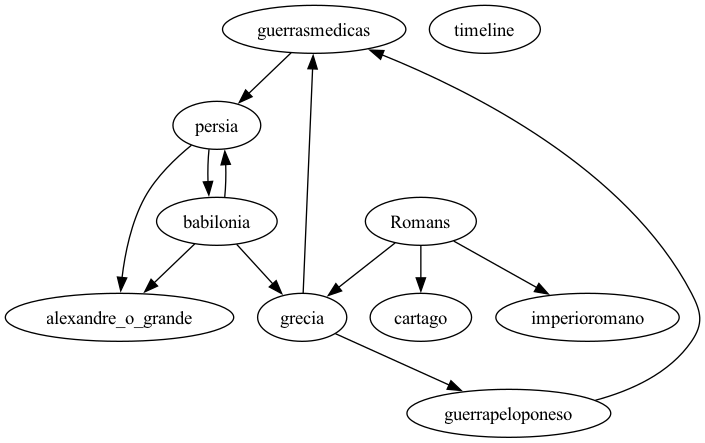
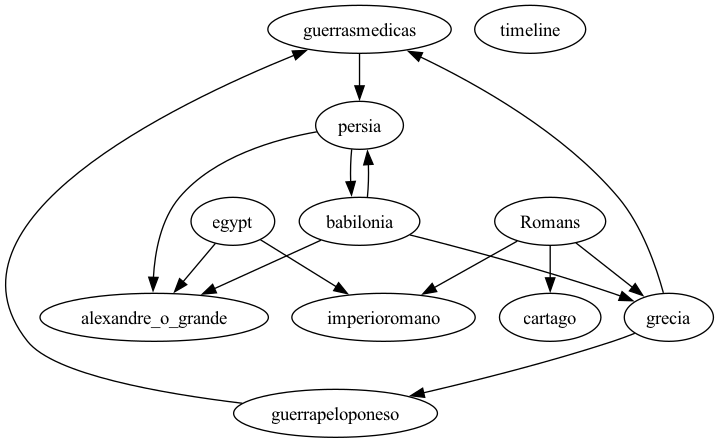
feat: egito, they are old :) ::by sergio giraldo @ 20241119T2006CET, gpg signed

diff --git a/docs/index.html b/docs/index.html
@@ -59,7 +59,9 @@
 				<li><a href="persia">persia</a></li>
 				<li><a href="babilonia">babilonia</a></li>
 				<li><a href="alexandre_o_grande">alexandre_o_grande</a></li>
-				<!--NEXT-->
+				
+<li><a href='egypt'>egypt</a></li>
+<!--NEXT-->
 			</ul>
 		</div>
 	</body>

diff --git a/docs/egypt.md b/docs/egypt.md
@@ -1,0 +1,41 @@
+# Egypt
+
+## Preambule
+
+Egypt has been inhabited by humans (including archaic humans) for over a million (and probably over 2 million) years, though the evidence for early occupation of Egypt is sparse and fragmentary. The oldest archaeological finds in Egypt, stone tools belonging to the Oldowan industry, are poorly dated. These tools are succeeded by those belonging to the Acheulean industry.[3] The youngest Achulean sites in Egypt date to around 400-300,000 years ago.
+
+During the Late Pleistocene, when Egypt was occupied by modern humans, several archaeological industries are recognised including the Silsilian, Fakhurian, Afian, Kubbaniyan, Idfuan-Shuwikhatian, and the Isnan industries
+
+## Prehistoric Egypt
+
+- 300,000 BC – 3100 BC
+
+### Summary
+
+Prehistoric Egypt and Predynastic Egypt was the period of time starting at the first human settlement and ending at the First Dynasty of Egypt around 3100 BC.
+
+At the end of prehistory, "Predynastic Egypt" is traditionally defined as the period from the final part of the Neolithic period beginning c. 6210 BC to the end of the Naqada III period c. 3000 BC.
+
+## Ancient Egypt
+
+- 3150 BC – 330 BC
+
+### Summary
+
+Ancient Egypt was a civilization of ancient Northeast Africa. It was concentrated along the lower reaches of the Nile River, situated within the contemporary territory of modern-day Egypt. Ancient Egyptian civilization followed prehistoric Egypt and coalesced around 3100 BC (according to conventional Egyptian chronology)[1] with the political unification of Upper and Lower Egypt under pharaoh or king Menes (often identified with Narmer).[2] The history of ancient Egypt unfolded as a series of stable kingdoms interspersed by periods of relative instability known as "Intermediate Periods". The various kingdoms fall into one of three categories: the Old Kingdom of the Early Bronze Age, the Middle Kingdom of the Middle Bronze Age, or the New Kingdom of the Late Bronze Age.
+
+Ancient Egypt reached the pinnacle of its power during the New Kingdom, ruling much of Nubia and a sizable portion of the Levant. After this period, it entered an era of slow decline. During the course of its history, ancient Egypt was invaded or conquered by a number of foreign powers, including the Hyksos, the Nubians, the Assyrians, the Achaemenid Persians, and the Macedonians under [Alexander the Great](alexandre_o_grande). The Greek Ptolemaic Kingdom, formed in the aftermath of Alexander's death, ruled until 30 BC, when, under Cleopatra, it fell to the [Roman Empire](imperioromano) and became a Roman province.Egypt remained under Roman control until 642 AD, when it was conquered by the Rashidun Caliphate.
+
+The success of ancient Egyptian civilization came partly from its ability to adapt to the conditions of the Nile River valley for agriculture. The predictable flooding and controlled irrigation of the fertile valley produced surplus crops, which supported a more dense population, and social development and culture. With resources to spare, the administration sponsored mineral exploitation of the valley and surrounding desert regions, the early development of an independent writing system, the organization of collective construction and agricultural projects, trade with surrounding regions, and a military intended to assert Egyptian dominance. Motivating and organizing these activities was a bureaucracy of elite scribes, religious leaders, and administrators under the control of a pharaoh, who ensured the cooperation and unity of the Egyptian people in the context of an elaborate system of religious beliefs.[4]
+
+The many achievements of the ancient Egyptians include the quarrying, surveying, and construction techniques that supported the building of monumental pyramids, temples, and obelisks; a system of mathematics, a practical and effective system of medicine, irrigation systems, and agricultural production techniques, the first known planked boats,[5] Egyptian faience and glass technology, new forms of literature, and the earliest known peace treaty, made with the Hittites.[6] Ancient Egypt has left a lasting legacy. Its art and architecture were widely copied, and its antiquities were carried off to be studied, admired or coveted in the far corners of the world. Its monumental ruins have inspired the imaginations of travelers and writers for millennia. A newfound respect for antiquities and excavations in the early modern period by Europeans and Egyptians has led to the scientific investigation of Egyptian civilization and a greater appreciation of its cultural legacy.
+
+## Roman Egypt
+
+- 30 BC – 641 AD
+
+### Summary
+
+Roman Egypt was an imperial province of the [Roman Empire](imperioromano) from 30 BC to AD 641. The province encompassed most of modern-day Egypt except for the Sinai. It was bordered by the provinces of Crete and Cyrenaica to the west and Judaea, later Arabia Petraea, to the East.
+
+Egypt was conquered by Roman forces in 30 BC and became a province of the new Roman Empire upon its formation in 27 BC. Egypt came to serve as a major producer of grain for the empire and had a highly developed urban economy. It was by far the wealthiest Roman province outside of Italy.[2] The population of Roman Egypt is unknown, although estimates vary from 4 to 8 million.[3][1] Alexandria, its capital, was the largest port and second largest city of the Roman Empire.[4][5]

diff --git a/docs/timeline.md b/docs/timeline.md
@@ -1,5 +1,7 @@
 # Timeline
 
+| 300.000 - Egypt
+
 | 2000 - Grecia
 
 | 1894 - Babilonia
